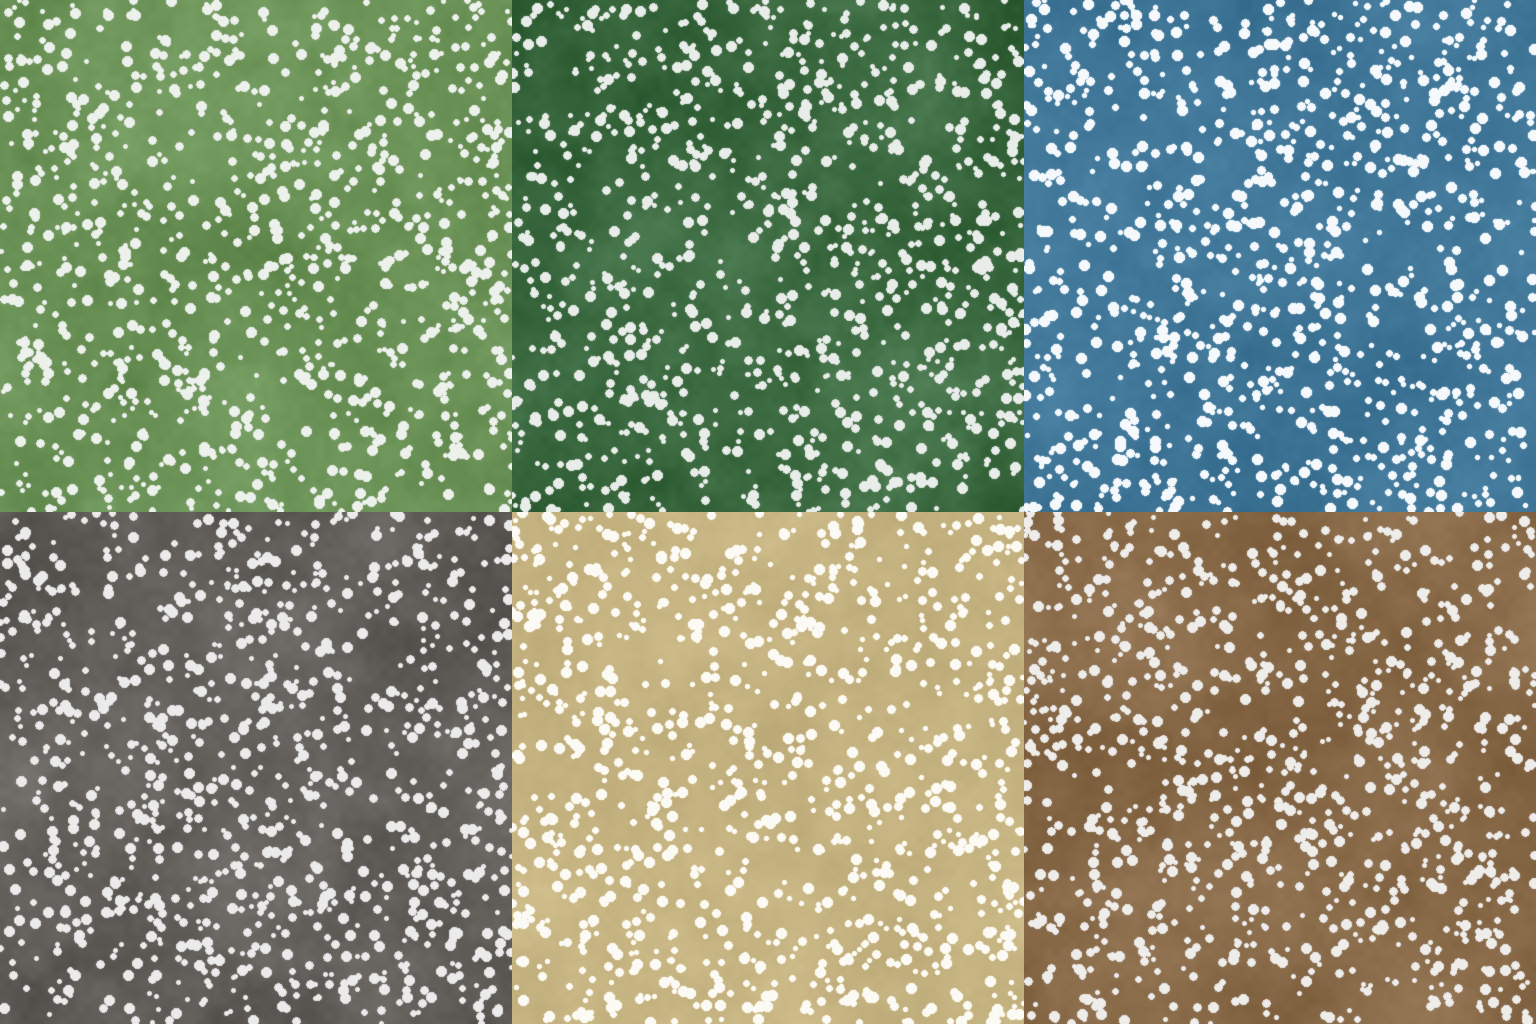
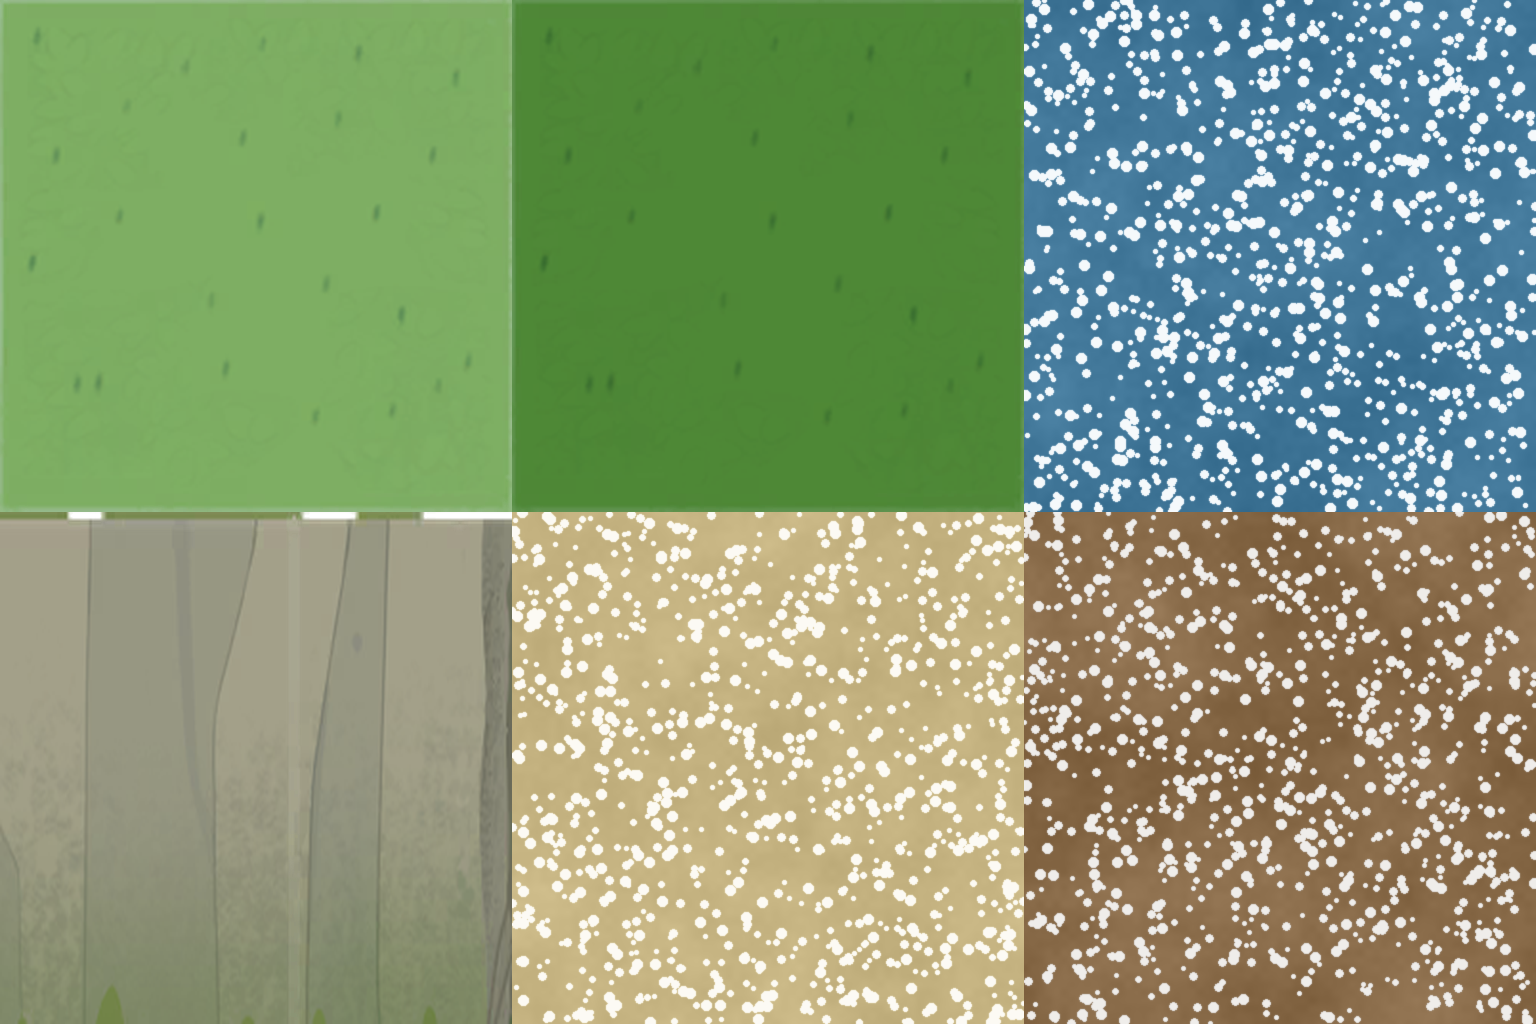
改进：森之国地表换真贴图（草地/林地/岩石）+ 首开落归木村 + 预览工具世界尺寸钉住
- 用户指路 Mapscence/map11/ground11/ 直供：草地=ground_1 真贴图，林地=真草乘色，岩石=Ground11_Atlas 崖壁切（360,676)-(628,816)；水面/沙滩/裸土包内无平铺真贴图维持程序化
- 首开视野落首个地标（归木村）附近而非几何中心
- creator-preview：SLG_WORLD_SIZE=1500 与 shared SLG_MAP_W 由工具单测钉住，修地标定位步尺寸漂移
- Creator 预览 23 步全过（归木村首开/四档 LOD/总览地标/绘卷/重开）

diff --git a/apps/Cocos/assets/src/kits/slg/logic/SlgMapLogic.ts b/apps/Cocos/assets/src/kits/slg/logic/SlgMapLogic.ts
@@ -2,6 +2,7 @@
 import { SLG_CHUNK_SIZE, SLG_MAP_W, SLG_MAP_H, SLG_MAX_GUARD, chunkKey, gridFromTileId, tileIdFromGrid, type ISlgTile } from "../../../shared/kits/slg/api/worldmap/index";
 import { tileAction } from "../api/worldmap/index";
 import { MapCamera } from "./mapCamera";
+import { SLG_LANDMARKS } from "./mapArt";
 import { MapStreamer } from "./mapStreamer";
 import type { SlgRuntime } from "./slgRuntime";
 
@@ -27,7 +28,8 @@ export class SlgMapLogic {
     private waitingForRateLimit = false;
     private readonly offPump: (() => void) | null;
     constructor(readonly runtime: SlgRuntime | null, width: number, height: number) {
-        this.camera = new MapCamera(width, height);
+        // 初始视野落在首个地标（归木村）附近，而不是几何中心——首开即是主题风貌。
+        this.camera = new MapCamera(width, height, SLG_LANDMARKS[0].x, SLG_LANDMARKS[0].y + 10);
         if (!runtime) this.notice = "大地图未就绪（kit 未装载）";
         this.offPump = runtime?.tick(() => { void this.pump(); }) ?? null;
     }

diff --git a/apps/client/src/kits/slg/logic/SlgMapLogic.ts b/apps/client/src/kits/slg/logic/SlgMapLogic.ts
@@ -2,6 +2,7 @@
 import { SLG_CHUNK_SIZE, SLG_MAP_W, SLG_MAP_H, SLG_MAX_GUARD, chunkKey, gridFromTileId, tileIdFromGrid, type ISlgTile } from "../../../shared/kits/slg/api/worldmap/index";
 import { tileAction } from "../api/worldmap/index";
 import { MapCamera } from "./mapCamera";
+import { SLG_LANDMARKS } from "./mapArt";
 import { MapStreamer } from "./mapStreamer";
 import type { SlgRuntime } from "./slgRuntime";
 
@@ -27,7 +28,8 @@ export class SlgMapLogic {
     private waitingForRateLimit = false;
     private readonly offPump: (() => void) | null;
     constructor(readonly runtime: SlgRuntime | null, width: number, height: number) {
-        this.camera = new MapCamera(width, height);
+        // 初始视野落在首个地标（归木村）附近，而不是几何中心——首开即是主题风貌。
+        this.camera = new MapCamera(width, height, SLG_LANDMARKS[0].x, SLG_LANDMARKS[0].y + 10);
         if (!runtime) this.notice = "大地图未就绪（kit 未装载）";
         this.offPump = runtime?.tick(() => { void this.pump(); }) ?? null;
     }

diff --git a/apps/Cocos/assets/src/kits/slg/logic/mapCamera.ts b/apps/Cocos/assets/src/kits/slg/logic/mapCamera.ts
@@ -20,7 +20,9 @@ export class MapCamera {
     private velocityY = 0;
     private lastMoveAt = 0;
     private readonly pointers = new Map<number, Pointer>();
-    constructor(readonly width: number, readonly height: number) {}
+    constructor(readonly width: number, readonly height: number, initialX?: number, initialY?: number) {
+        if (Number.isFinite(initialX) && Number.isFinite(initialY)) this.commit(initialX!, initialY!, this.scale);
+    }
 
     get lod(): number { return this.currentLod; }
     get pixelsPerGrid(): number { return this.scale * SLG_GRID_PIXELS; }

diff --git a/apps/client/src/kits/slg/logic/mapCamera.ts b/apps/client/src/kits/slg/logic/mapCamera.ts
@@ -20,7 +20,9 @@ export class MapCamera {
     private velocityY = 0;
     private lastMoveAt = 0;
     private readonly pointers = new Map<number, Pointer>();
-    constructor(readonly width: number, readonly height: number) {}
+    constructor(readonly width: number, readonly height: number, initialX?: number, initialY?: number) {
+        if (Number.isFinite(initialX) && Number.isFinite(initialY)) this.commit(initialX!, initialY!, this.scale);
+    }
 
     get lod(): number { return this.currentLod; }
     get pixelsPerGrid(): number { return this.scale * SLG_GRID_PIXELS; }

diff --git a/apps/kits/slg/art/senzhiguo-v1/README.md b/apps/kits/slg/art/senzhiguo-v1/README.md
@@ -8,7 +8,7 @@
 
 | 文件 | 形态 | 来源与做法 |
 | --- | --- | --- |
-| [terrain-atlas.png](terrain-atlas.png) | 1536×1024，RGB PNG，6 格 | **程序化生成**（PIL 值噪声 + 斑点，环形采样保证四边可平铺）：草地/林地/水面/岩石/沙滩/裸土。⚠ 原计划用 UnityPy 从 bundle 还原森之国真实 Tilemap 地砖；实际执行发现地砖贴图所在的共享 bundle **不在该学习包内**（`device-cdn` 只拉了 1804 个地图相关 bundle，chunk 的 SpriteRenderer 外部引用 `CAB-a4f77805…` 未入包），按 slg 换肤计划登记的 fallback 转程序化。提取记录见 [pipeline/](pipeline/)。 |
+| [terrain-atlas.png](terrain-atlas.png) | 1536×1024，RGB PNG，6 格 | **真贴图 + 程序化混合**：草地 = 真实地砖 `ground11/ground_1.png`；林地 = 真草地乘色加深；岩石 = `ground11/sactx-0-2048x2048-ASTC 6x6-Ground11_Atlas-a2189f17.png` 崖壁切（像素框 (360,676)-(628,816)）；水面/沙滩/裸土包内无平铺真贴图（水面是 shader+mask）→ 程序化生成（PIL 值噪声，环形采样保证四边可平铺）。最初计划用 UnityPy 从 bundle 还原 Tilemap 地砖全链，但 chunk sprite 外部引用 bundle（`CAB-a4f77805…`）不在学习包内；真实瓦片后经 `Mapscence/map11/ground11/` 的 PNG 直供解决（用户指路），不再需要 UnityPy 链。 |
 | [decoration-atlas.png](decoration-atlas.png) | 1536×1024，RGBA PNG，6 格 | 从 `zjcs-1.2.6/yoo-assets/map-assets/Assets/AppearanceAssets/Map/` 的多 sprite 部件图**人工策展子矩形**切片：藤蔓（map_mingYunShuTeng）、宝箱（map_baoXiang_01 第 3 帧）、传送门（map_dingDianChuanSongMen_E_1 左扉）、祭坛（map_fangJianBei_B_2 主体）、灵晶（map_shuangYanShanMai_G 蓝晶簇）、古剑碑（map_guJianCheng_D_1 主体）。裁剪坐标见 [pipeline/build-atlases.py](pipeline/build-atlases.py) 的 `CROPS` 表。 |
 | [world-overview.png](world-overview.png) | 1024×1024，RGBA PNG | 程序绘制：terrain.json 区域矩形 + forest-layout 装饰剪影 + 地标金点（pipeline/build-overview.py），非原始美术。 |
 | `../data/forest-layout.json`（kit 数据） | JSON | 森之国布局包 `mapinfowrap_11_mspack.bytes`（MessagePack，77 区 1803 实体）经 [pipeline/build-layout.py](pipeline/build-layout.py) 解码：坐标 5× 放大复刻到本图中心区，实体按 `entity_map_display.csv` 的 DisplayPath 归六类装饰（怪物/NPC 不进装饰层）。 |

diff --git a/slg.md b/slg.md
@@ -287,7 +287,7 @@ cc 桩缺口按需补 `apps/client/cc-stub.d.ts` / `client-test-stubs.d.ts`（`c
 
 | 决策 | 结果 |
 | --- | --- |
-| 地表真贴图（UnityPy 解 bundle） | **未遂，走预登记 fallback**：chunk 地表 sprite 的外部引用 bundle（`CAB-a4f77805…`）不在学习包的 1804 个已拉 bundle 内；程序化地表 + 森之国调色板替代，留档于 `apps/kits/slg/art/senzhiguo-v1/` |
+| 地表真贴图 | **混合落地**：UnityPy 链未遂（chunk sprite 的外部引用 bundle `CAB-a4f77805…` 不在学习包内）；用户指明 `Mapscence/map11/ground11/` PNG 直供后，草地（`ground_1.png`）、林地（真草乘色）、岩石（Ground11_Atlas 崖壁切 (360,676)-(628,816)）换真贴图；水面/沙滩/裸土包内无平铺真贴图（水面=shader+mask）维持程序化 |
 | 摆件 | 从 `AppearanceAssets/Map` 部件图人工策展切片六类：藤蔓 / 宝箱 / 传送门 / 祭坛 / 灵晶 / 古剑碑 |
 | 布局 | `mapinfowrap_11`（77 区 1803 实体，MessagePack）解码，坐标 5× 放大复刻中心区；装饰双源（中心区真实点位 + 其余确定性哈希）；地标换森之国五地名（经 chunk 足迹与旱地校验微调） |
 | 尺寸切换 | `SLG_MAP_W/H` 10000→1500；`SLG_TILE_ID_STRIDE` / SQL 列宽兼容；尾块 12 格由既有部分块逻辑承接 |
